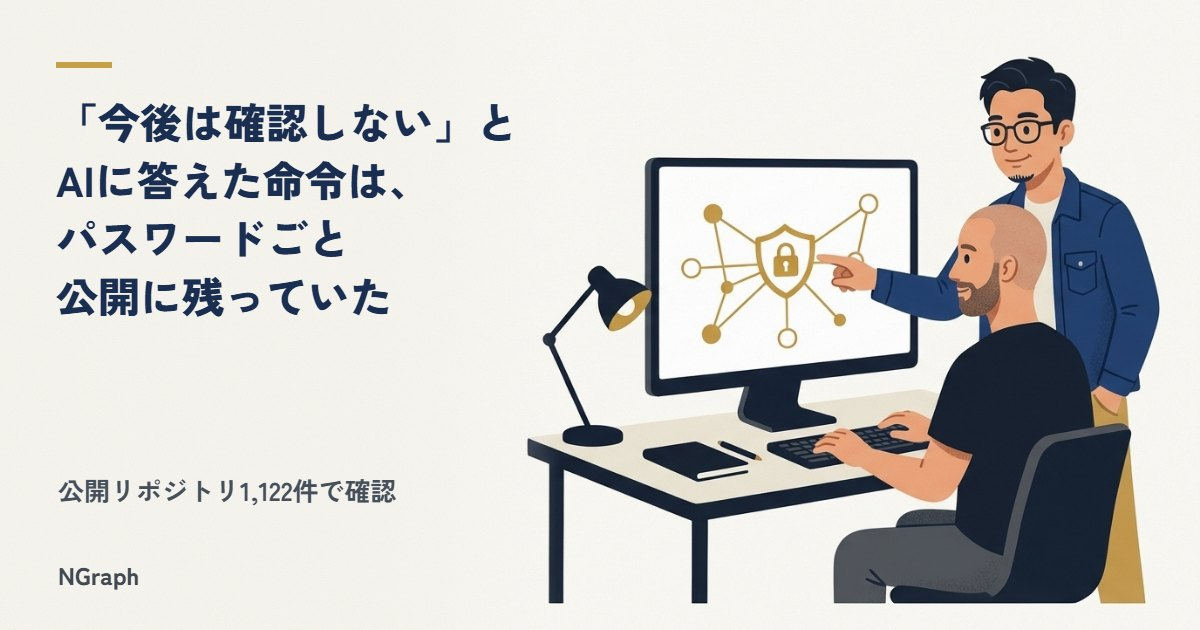
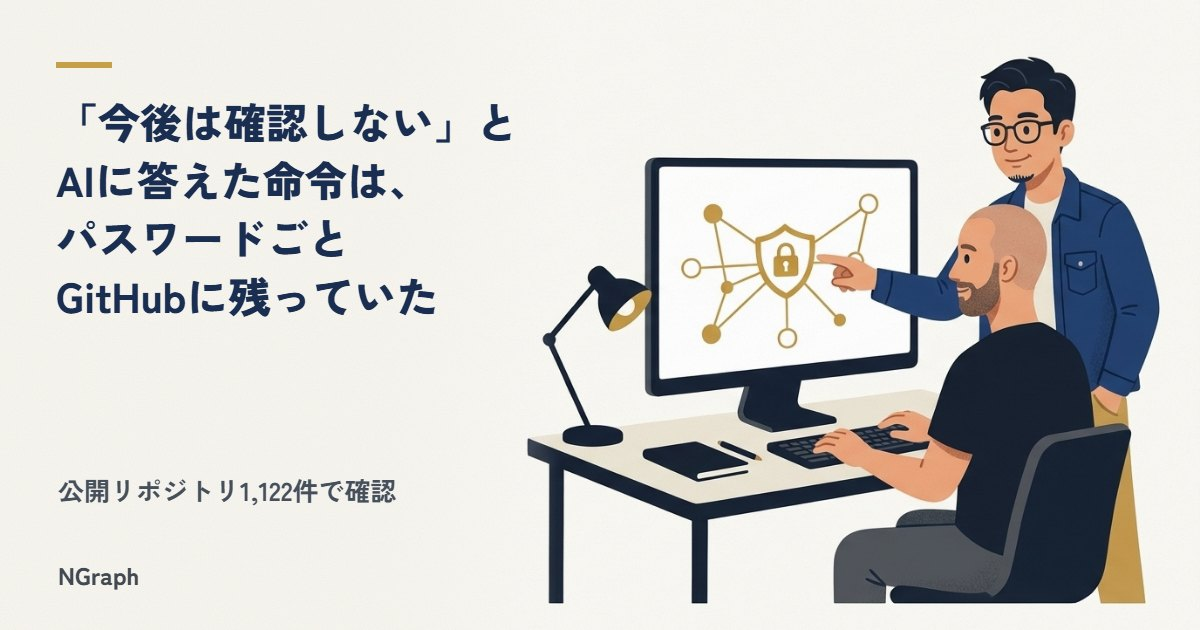
ブログ 20261108-ai-kyoka-file-password 最終検収：医療記録アプリの事例を原文どおり「クラウド上のデータベース」に（親が渡したリストの「本番」が誤り）・スキャナー検査の母集団を明記・表紙の題字「公開に残っていた」を「GitHubに残っていた」に

Changed region(s): [[0.0308, 0.4222, 0.37, 0.5127]]

diff --git a/blog/20261108-ai-kyoka-file-password.html b/blog/20261108-ai-kyoka-file-password.html
@@ -146,7 +146,7 @@
 <svg viewBox="0 0 1200 640" width="100%" style="min-width:640px" role="img" aria-label="3分の1以上が、データベースに直接入れる鍵だった"><text x="600.0" y="44" font-family="'Zen Kaku Gothic New',sans-serif" font-size="19" fill="#5c544a" font-weight="500" text-anchor="middle">公開リポジトリの許可ファイル1,122件に残っていた秘密1,379件の内訳</text><text x="462" y="101" font-family="'Zen Kaku Gothic New',sans-serif" font-size="21" fill="#2b2620" font-weight="700" text-anchor="end">データベースのパスワード</text><rect x="480" y="76" width="520" height="34" rx="2" fill="#a63a24"/><text x="1012" y="102" font-family="'Zen Kaku Gothic New',sans-serif" font-size="24" fill="#a63a24" font-weight="900" text-anchor="start">379件</text><text x="462" y="153" font-family="'Zen Kaku Gothic New',sans-serif" font-size="21" fill="#2b2620" font-weight="700" text-anchor="end">Supabaseのservice-roleキー</text><rect x="480" y="128" width="167" height="34" rx="2" fill="#a63a24"/><text x="659" y="154" font-family="'Zen Kaku Gothic New',sans-serif" font-size="24" fill="#a63a24" font-weight="900" text-anchor="start">122件</text><text x="462" y="205" font-family="'Zen Kaku Gothic New',sans-serif" font-size="21" fill="#2b2620" font-weight="700" text-anchor="end">Supabaseのアカウントトークン</text><rect x="480" y="180" width="141" height="34" rx="2" fill="#cfc5b4"/><text x="633" y="206" font-family="'Zen Kaku Gothic New',sans-serif" font-size="24" fill="#8a8172" font-weight="900" text-anchor="start">103件</text><text x="462" y="257" font-family="'Zen Kaku Gothic New',sans-serif" font-size="21" fill="#2b2620" font-weight="700" text-anchor="end">SSHのログイン</text><rect x="480" y="232" width="58" height="34" rx="2" fill="#cfc5b4"/><text x="550" y="258" font-family="'Zen Kaku Gothic New',sans-serif" font-size="24" fill="#8a8172" font-weight="900" text-anchor="start">43件</text><text x="462" y="309" font-family="'Zen Kaku Gothic New',sans-serif" font-size="21" fill="#2b2620" font-weight="700" text-anchor="end">GitHub/GitLab/npmのトークン</text><rect x="480" y="284" width="57" height="34" rx="2" fill="#cfc5b4"/><text x="549" y="310" font-family="'Zen Kaku Gothic New',sans-serif" font-size="24" fill="#8a8172" font-weight="900" text-anchor="start">42件</text><text x="462" y="361" font-family="'Zen Kaku Gothic New',sans-serif" font-size="21" fill="#2b2620" font-weight="700" text-anchor="end">AWSの鍵</text><rect x="480" y="336" width="31" height="34" rx="2" fill="#cfc5b4"/><text x="523" y="362" font-family="'Zen Kaku Gothic New',sans-serif" font-size="24" fill="#8a8172" font-weight="900" text-anchor="start">23件</text><text x="462" y="413" font-family="'Zen Kaku Gothic New',sans-serif" font-size="21" fill="#2b2620" font-weight="700" text-anchor="end">秘密鍵</text><rect x="480" y="388" width="8" height="34" rx="2" fill="#cfc5b4"/><text x="500" y="414" font-family="'Zen Kaku Gothic New',sans-serif" font-size="24" fill="#8a8172" font-weight="900" text-anchor="start">6件</text><text x="600.0" y="582.0" font-family="'Zen Old Mincho',serif" font-size="24" fill="#2b2620" font-weight="900" text-anchor="middle">残りは外部サービスのAPIトークンとAIモデルの鍵が中心</text><text x="8" y="624" font-family="'Zen Kaku Gothic New',sans-serif" font-size="13" fill="#8a8172" font-weight="400" text-anchor="start">出所：Apiiro「Coding Agents Are Leaking Your Secrets to GitHub」（2026年11月5日）</text></svg>
 </div>
 <p>service-roleキーは、データベースに全権限で入れる鍵です。SSHのログインは、公開サーバーに入るための情報です。</p>
-<p>具体例は、匿名のまま並べます。開発会社の決済サービスの本番トークン。医療記録アプリを作る会社の、本番データベースのオーナーパスワード。大学のリポジトリにあった、公開サーバーへのroot SSH命令の永久許可です。</p>
+<p>具体例は、匿名のまま並べます。開発会社の決済サービスの本番トークン。医療記録アプリを作る会社の、クラウド上のデータベースのオーナーパスワード。大学のリポジトリにあった、公開サーバーへのroot SSH命令の永久許可です。</p>
 <p>秘密を持っていた組織は63で、大半はソフトウェア会社でした。うち1社は、鍵は生きていたと確認しています。</p>
 
 <h2>なぜ「今後は確認しない」がパスワードを書き残すのか</h2>
@@ -183,7 +183,7 @@
 <p>さらにGitGuardianは、見つけた秘密が今も使えるかも追っています。2022年に見つかった有効な秘密の64%が、4年後も有効なまま公開リポジトリにありました。一度出た秘密は、時間がたっても消えにくいのです。</p>
 
 <h2>秘密スキャナーは5件に1件を見逃す</h2>
-<p>秘密スキャナーは、コードの中の鍵やパスワードを探す検査道具です。Apiiroは、gitleaksとTruffleHogで見つけたファイルを検査しました。</p>
+<p>秘密スキャナーは、コードの中の鍵やパスワードを探す検査道具です。Apiiroは、gitleaksとTruffleHogを全ファイルに通し、本物の秘密を含む1,122件で検出数を比べました。</p>
 <p>結果は次の図のとおりです。どちらを通しても、5件に1件は見逃しました。</p>
 <div class="a-fig-wrap">
 <p class="a-fig-title">秘密スキャナー2本を通しても、5件に1件は残った</p>
